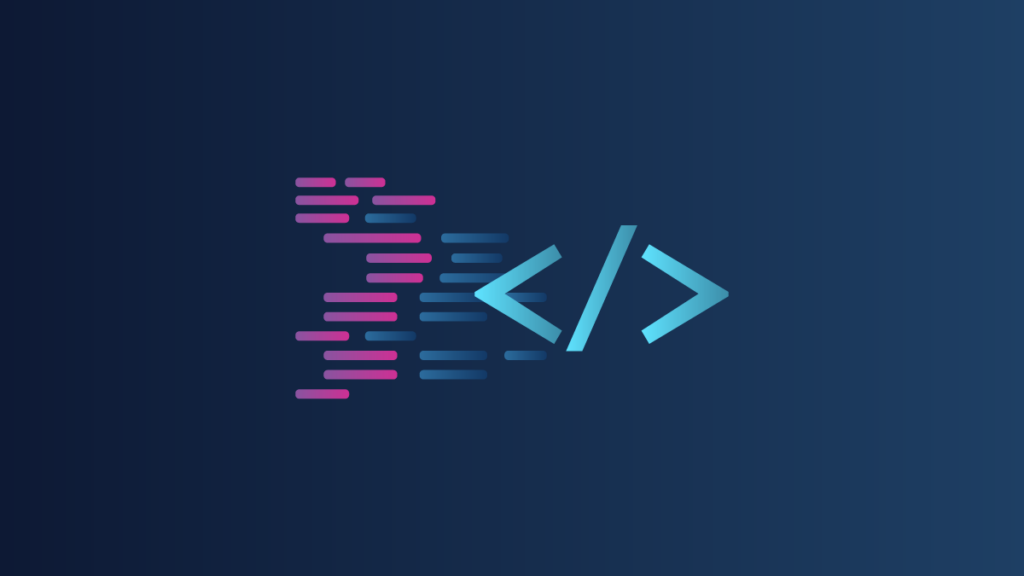
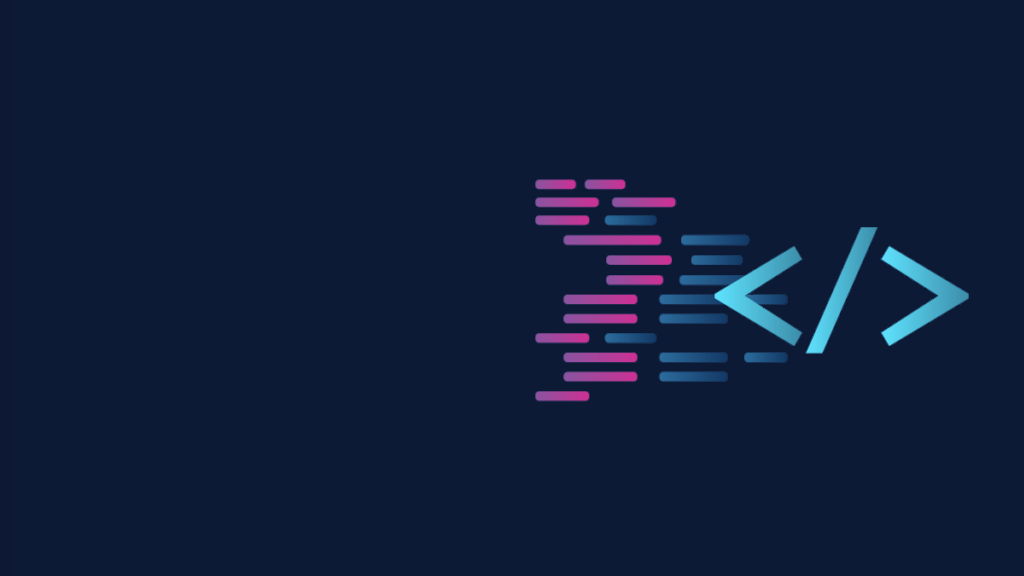
Small Changes

diff --git a/style.css b/style.css
@@ -6,7 +6,7 @@
     font-family: 'Poppins',sans-serif;
 }
 body{
-    background: #081b29;
+    
     color: #ededed;
 }
 .header{
@@ -22,11 +22,25 @@ body{
     z-index: 100;
 }
 .logo{
+    position: relative;
     font-size: 25px;
     color: #ededed;
     text-decoration: none;
     font-weight: 600;
 }
+
+.logo::before{
+    content: '';
+    position: absolute;
+    top:0;
+    right: 0;
+    width: 100%;
+    height: 100%;
+    background: red;
+    animation: showRight 1s ease forwards;
+    animation-delay: .4s;
+}
+
 .navbar a {
     font-size: 18px;
     color: #ededed;
@@ -42,7 +56,9 @@ body{
 }
 .home{
     height: 100vh;
-    background: url('Imagenes\CodeIMG.png');
+    background: url('Imagenes/CodeIMG.png') no-repeat;
+    background-size: cover;
+    background-position:center;
     display: flex;
     align-items: center;
     padding: 0 10%;
@@ -166,4 +182,24 @@ body{
 .home-sci a:hover::before{
 width: 100%;
 
+}
+
+.home-imgHover{
+    position: absolute;
+    right: 30px;
+    width: 657px;
+    height: 100%;
+    background: transparent;
+    transition: 3s;
+}
+.home-imgHover:hover{
+    background: #0D1A35;
+    opacity: .8;
+}
+/*KEYFRAMES ANIMATION*/
+
+@keyframes showRight{
+    100%{
+        width: 0;
+    }
 }

diff --git a/index.html b/index.html
@@ -40,6 +40,8 @@
 
 </div>
 
+<span class="home-imgHover"></span>
+
 </section>
 </body>
 </html>
